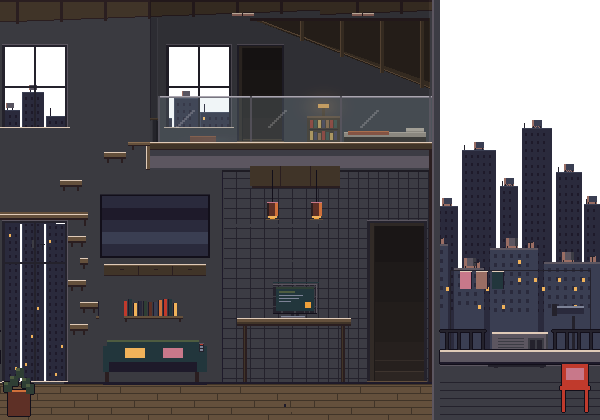
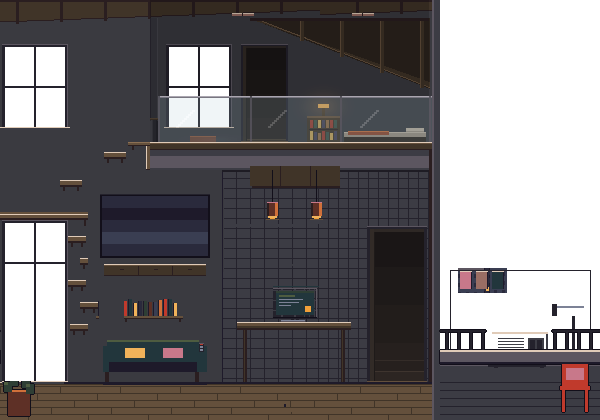
Update the live alivelog room to live27. (#24)
Replace alivelog-room with the uploaded archive, unchanged.

diff --git a/alivelog-room/traffic.js b/alivelog-room/traffic.js
@@ -1,0 +1,43 @@
+// traffic.js（windowview3：加天際線窗燈）：高架橋上的像素車流（畫在 #land 與 #wx 之間的 <canvas id="traffic">）
+// 白天/黃昏：彩色車身；夜晚：暗車身＋白頭燈、紅尾燈；橋上路燈夜間點亮。跟 world.js 的 WEATHER.phase（台北時間日夜）。
+// 另外依 phase/天氣替 #land（地景層）套濾鏡，#sky 仍由 world.js 處理。約 15fps，只清橋面那一條帶狀區。
+(()=>{const CFG={"y0": 212, "y1": 212, "l0": 6, "l1": 6, "h0": 2, "h1": 2, "v": 38, "n": 12, "lamps": [14, 54, 94, 134, 174, 214, 254, 294, 334, 374, 414, 454, 494, 534, 574], "lampH": 4, "band": [147, 213], "win": [[548, 148, 1, 1, "#ff3a30"], [547, 161, 3, 1, "#e8f0d8"], [172, 196, 2, 1, "#d8e4f0"], [48, 202, 1, 1, "#f0c878"], [456, 189, 2, 1, "#f0c878"], [550, 159, 1, 1, "#d8e4f0"], [502, 195, 1, 1, "#f8e0a8"], [546, 170, 1, 1, "#e8b060"], [549, 169, 1, 1, "#d8e4f0"], [190, 197, 1, 1, "#f8e0a8"], [46, 182, 1, 1, "#f8e0a8"], [23, 186, 1, 1, "#f0c878"], [550, 200, 1, 1, "#f0c878"], [457, 181, 1, 1, "#d8e4f0"], [67, 199, 1, 1, "#f0c878"], [428, 200, 2, 1, "#d8e4f0"], [344, 191, 2, 1, "#f0c878"], [78, 194, 2, 1, "#f0c878"], [66, 194, 1, 1, "#f0c878"], [487, 180, 1, 1, "#f0c878"], [573, 205, 2, 1, "#e8b060"], [322, 196, 2, 1, "#f8e0a8"], [252, 198, 1, 1, "#f0c878"], [451, 203, 2, 1, "#f8e0a8"], [116, 199, 1, 1, "#f0c878"], [492, 191, 1, 1, "#e8b060"], [160, 193, 1, 1, "#f8e0a8"], [324, 202, 1, 1, "#d8e4f0"], [101, 186, 1, 1, "#d8e4f0"], [546, 163, 2, 1, "#f8e0a8"], [86, 196, 2, 1, "#f0c878"], [345, 195, 2, 1, "#f0c878"], [141, 204, 1, 1, "#f0c878"], [495, 200, 1, 1, "#f8e0a8"], [263, 198, 2, 1, "#f0c878"], [172, 199, 1, 1, "#f8e0a8"], [279, 203, 1, 1, "#f0c878"], [64, 190, 1, 1, "#d8e4f0"], [560, 204, 1, 1, "#e8b060"], [322, 182, 1, 1, "#e8b060"], [85, 188, 2, 1, "#f8e0a8"], [286, 205, 2, 1, "#f8e0a8"], [89, 189, 1, 1, "#f0c878"], [541, 192, 1, 1, "#f0c878"], [86, 204, 1, 1, "#f0c878"], [528, 204, 1, 1, "#f8e0a8"], [507, 201, 1, 1, "#f0c878"], [386, 195, 1, 1, "#e8b060"], [262, 205, 2, 1, "#f0c878"], [385, 198, 1, 1, "#f8e0a8"], [549, 204, 2, 1, "#f8e0a8"], [540, 188, 1, 1, "#f8e0a8"], [350, 193, 1, 1, "#f0c878"], [185, 194, 2, 1, "#e8b060"], [269, 202, 1, 1, "#e8b060"], [492, 182, 1, 1, "#f0c878"], [397, 195, 1, 1, "#f0c878"], [153, 190, 1, 1, "#d8e4f0"], [319, 202, 1, 1, "#d8e4f0"], [195, 203, 2, 1, "#e8b060"], [402, 186, 1, 1, "#f8e0a8"], [357, 200, 1, 1, "#f0c878"], [383, 204, 1, 1, "#e8b060"], [403, 189, 1, 1, "#f0c878"], [257, 186, 1, 1, "#f0c878"], [531, 203, 1, 1, "#f0c878"], [23, 189, 1, 1, "#e8b060"], [391, 180, 1, 1, "#f0c878"], [252, 185, 2, 1, "#d8e4f0"], [378, 203, 1, 1, "#f0c878"], [585, 202, 1, 1, "#e8b060"], [401, 193, 1, 1, "#d8e4f0"], [544, 176, 1, 1, "#f0c878"], [82, 192, 1, 1, "#e8b060"], [539, 195, 1, 1, "#f0c878"], [51, 187, 1, 1, "#f0c878"], [147, 191, 1, 1, "#f0c878"], [75, 190, 1, 1, "#f8e0a8"], [329, 205, 1, 1, "#f0c878"], [286, 198, 1, 1, "#e8b060"], [114, 205, 2, 1, "#e8b060"], [348, 205, 1, 1, "#d8e4f0"], [487, 193, 1, 1, "#f0c878"], [490, 204, 2, 1, "#f0c878"], [51, 192, 1, 1, "#e8b060"], [174, 202, 2, 1, "#f0c878"], [549, 197, 2, 1, "#e8b060"], [265, 190, 1, 1, "#f0c878"], [368, 190, 2, 1, "#e8b060"], [144, 201, 1, 1, "#f8e0a8"], [452, 190, 2, 1, "#f0c878"], [488, 183, 1, 1, "#f0c878"], [545, 194, 1, 1, "#f8e0a8"], [482, 203, 2, 1, "#f0c878"], [103, 203, 1, 1, "#f0c878"], [46, 192, 2, 1, "#f0c878"], [140, 202, 2, 1, "#f0c878"], [106, 198, 2, 1, "#f0c878"], [549, 172, 1, 1, "#f0c878"], [26, 202, 2, 1, "#f0c878"], [383, 183, 1, 1, "#f0c878"], [81, 197, 2, 1, "#f8e0a8"], [166, 201, 2, 1, "#f8e0a8"], [287, 205, 2, 1, "#d8e4f0"], [387, 189, 2, 1, "#d8e4f0"], [65, 191, 1, 1, "#f8e0a8"], [351, 198, 1, 1, "#d8e4f0"], [430, 205, 1, 1, "#e8b060"], [363, 193, 1, 1, "#d8e4f0"], [391, 201, 2, 1, "#f8e0a8"], [548, 168, 2, 1, "#d8e4f0"], [507, 199, 1, 1, "#f0c878"], [275, 205, 1, 1, "#f0c878"], [556, 193, 1, 1, "#f8e0a8"], [546, 179, 1, 1, "#f8e0a8"], [482, 189, 2, 1, "#e8b060"], [157, 189, 1, 1, "#d8e4f0"], [78, 191, 1, 1, "#e8b060"], [271, 194, 2, 1, "#f0c878"], [189, 201, 2, 1, "#f0c878"], [88, 188, 1, 1, "#f0c878"], [402, 196, 1, 1, "#f0c878"], [86, 185, 2, 1, "#d8e4f0"], [330, 197, 1, 1, "#d8e4f0"], [484, 183, 1, 1, "#f0c878"], [457, 192, 1, 1, "#f8e0a8"], [196, 193, 1, 1, "#f0c878"], [453, 193, 1, 1, "#e8b060"], [141, 199, 1, 1, "#e8b060"], [171, 191, 1, 1, "#f0c878"], [41, 196, 1, 1, "#f0c878"], [23, 198, 1, 1, "#d8e4f0"], [31, 205, 2, 1, "#d8e4f0"], [556, 189, 1, 1, "#e8b060"], [344, 204, 2, 1, "#f0c878"], [449, 193, 1, 1, "#f8e0a8"], [86, 200, 1, 1, "#f8e0a8"], [454, 187, 1, 1, "#e8b060"], [369, 195, 2, 1, "#f8e0a8"], [103, 194, 1, 1, "#d8e4f0"], [530, 201, 2, 1, "#e8b060"], [362, 200, 1, 1, "#e8b060"], [271, 198, 1, 1, "#f0c878"], [98, 195, 1, 1, "#f8e0a8"], [508, 203, 1, 1, "#e8b060"], [24, 192, 1, 1, "#e8b060"], [323, 202, 1, 1, "#f8e0a8"], [252, 202, 2, 1, "#f8e0a8"], [346, 200, 2, 1, "#f0c878"], [52, 190, 1, 1, "#e8b060"], [50, 185, 1, 1, "#d8e4f0"], [540, 197, 1, 1, "#e8b060"], [440, 198, 1, 1, "#d8e4f0"], [66, 205, 2, 1, "#f0c878"], [488, 203, 1, 1, "#f8e0a8"], [322, 192, 2, 1, "#e8b060"], [115, 204, 1, 1, "#d8e4f0"], [130, 204, 1, 1, "#e8b060"], [346, 197, 1, 1, "#f0c878"], [51, 182, 1, 1, "#f8e0a8"], [49, 189, 1, 1, "#f8e0a8"], [90, 202, 1, 1, "#e8b060"], [168, 191, 1, 1, "#f0c878"], [160, 184, 1, 1, "#f8e0a8"], [176, 193, 1, 1, "#f8e0a8"], [269, 181, 2, 1, "#e8b060"], [48, 198, 2, 1, "#d8e4f0"], [155, 184, 1, 1, "#f8e0a8"], [389, 194, 1, 1, "#f8e0a8"], [255, 205, 2, 1, "#f8e0a8"], [504, 203, 2, 1, "#e8b060"], [378, 204, 1, 1, "#d8e4f0"], [366, 196, 1, 1, "#d8e4f0"], [328, 202, 1, 1, "#e8b060"], [597, 202, 1, 1, "#f0c878"], [110, 194, 1, 1, "#d8e4f0"], [374, 203, 1, 1, "#f8e0a8"], [38, 195, 2, 1, "#d8e4f0"], [155, 195, 1, 1, "#e8b060"], [40, 199, 1, 1, "#e8b060"], [91, 190, 2, 1, "#e8b060"], [147, 192, 1, 1, "#f0c878"], [281, 204, 1, 1, "#f8e0a8"], [548, 165, 1, 1, "#d8e4f0"], [546, 196, 1, 1, "#d8e4f0"], [553, 204, 1, 1, "#f0c878"], [539, 188, 1, 1, "#f0c878"], [546, 177, 2, 1, "#f0c878"], [50, 202, 1, 1, "#e8b060"], [59, 204, 2, 1, "#d8e4f0"], [439, 204, 2, 1, "#f8e0a8"], [171, 201, 2, 1, "#f0c878"], [275, 198, 2, 1, "#f8e0a8"], [402, 185, 2, 1, "#f0c878"], [59, 189, 1, 1, "#f0c878"], [65, 196, 1, 1, "#f0c878"], [350, 201, 2, 1, "#d8e4f0"], [252, 194, 2, 1, "#e8b060"], [471, 204, 2, 1, "#d8e4f0"], [398, 198, 1, 1, "#e8b060"], [400, 192, 2, 1, "#f0c878"], [387, 187, 1, 1, "#e8b060"], [271, 188, 1, 1, "#f0c878"], [45, 180, 1, 1, "#f8e0a8"], [260, 201, 1, 1, "#f0c878"], [81, 192, 1, 1, "#d8e4f0"], [565, 204, 1, 1, "#f0c878"], [188, 197, 1, 1, "#f0c878"], [268, 200, 2, 1, "#f8e0a8"], [162, 199, 1, 1, "#f0c878"], [172, 198, 1, 1, "#f0c878"], [191, 199, 1, 1, "#f0c878"], [271, 205, 1, 1, "#e8b060"], [64, 200, 2, 1, "#d8e4f0"], [362, 196, 1, 1, "#f0c878"], [461, 200, 1, 1, "#f8e0a8"], [488, 200, 1, 1, "#f0c878"], [99, 183, 1, 1, "#d8e4f0"], [262, 181, 1, 1, "#f0c878"], [165, 194, 1, 1, "#f0c878"], [272, 180, 2, 1, "#e8b060"], [189, 191, 1, 1, "#e8b060"], [487, 181, 1, 1, "#f0c878"], [265, 193, 1, 1, "#f0c878"], [108, 191, 1, 1, "#f8e0a8"], [91, 187, 2, 1, "#f0c878"], [96, 194, 1, 1, "#d8e4f0"], [340, 201, 1, 1, "#d8e4f0"], [376, 198, 1, 1, "#e8b060"], [179, 205, 1, 1, "#f0c878"], [102, 192, 2, 1, "#f0c878"], [455, 190, 2, 1, "#f0c878"], [152, 204, 1, 1, "#e8b060"], [546, 191, 1, 1, "#f8e0a8"], [144, 193, 2, 1, "#f8e0a8"], [322, 194, 2, 1, "#f0c878"], [562, 191, 2, 1, "#e8b060"], [461, 192, 1, 1, "#f0c878"], [41, 202, 1, 1, "#e8b060"], [560, 188, 1, 1, "#e8b060"], [77, 188, 1, 1, "#e8b060"], [255, 203, 2, 1, "#f0c878"], [462, 197, 1, 1, "#d8e4f0"], [531, 199, 2, 1, "#d8e4f0"], [346, 203, 1, 1, "#f0c878"], [545, 188, 1, 1, "#d8e4f0"], [368, 203, 1, 1, "#f8e0a8"], [362, 201, 1, 1, "#d8e4f0"], [589, 205, 1, 1, "#f8e0a8"], [429, 205, 1, 1, "#d8e4f0"], [194, 202, 1, 1, "#f0c878"], [191, 204, 1, 1, "#d8e4f0"], [323, 203, 2, 1, "#d8e4f0"], [496, 203, 1, 1, "#f0c878"], [274, 187, 1, 1, "#f8e0a8"], [85, 184, 1, 1, "#e8b060"], [492, 179, 1, 1, "#f8e0a8"], [217, 205, 1, 1, "#d8e4f0"], [384, 192, 1, 1, "#e8b060"], [583, 201, 2, 1, "#e8b060"], [390, 194, 2, 1, "#d8e4f0"], [551, 194, 2, 1, "#f8e0a8"], [478, 203, 1, 1, "#d8e4f0"], [319, 195, 1, 1, "#f0c878"], [540, 204, 1, 1, "#f0c878"], [81, 199, 2, 1, "#d8e4f0"], [162, 193, 1, 1, "#f0c878"], [66, 191, 2, 1, "#f8e0a8"], [31, 201, 1, 1, "#f0c878"], [396, 199, 1, 1, "#f0c878"], [449, 192, 1, 1, "#e8b060"], [489, 191, 1, 1, "#f0c878"], [55, 198, 1, 1, "#f0c878"], [151, 192, 1, 1, "#d8e4f0"], [157, 195, 1, 1, "#f8e0a8"], [384, 200, 2, 1, "#d8e4f0"], [45, 194, 2, 1, "#f0c878"], [338, 198, 2, 1, "#f0c878"], [460, 201, 2, 1, "#f8e0a8"], [449, 187, 2, 1, "#f8e0a8"], [563, 204, 1, 1, "#f0c878"], [59, 200, 2, 1, "#e8b060"], [356, 203, 1, 1, "#d8e4f0"], [452, 192, 1, 1, "#f0c878"], [551, 186, 1, 1, "#d8e4f0"], [188, 205, 2, 1, "#f0c878"], [588, 193, 1, 1, "#f8e0a8"], [50, 193, 2, 1, "#d8e4f0"], [99, 192, 1, 1, "#e8b060"], [564, 201, 1, 1, "#e8b060"], [566, 194, 1, 1, "#e8b060"], [45, 200, 1, 1, "#f0c878"], [153, 189, 2, 1, "#f8e0a8"], [158, 205, 1, 1, "#e8b060"], [419, 205, 1, 1, "#d8e4f0"], [86, 187, 1, 1, "#e8b060"], [534, 202, 1, 1, "#e8b060"], [488, 194, 2, 1, "#d8e4f0"], [549, 182, 2, 1, "#f0c878"], [388, 190, 1, 1, "#d8e4f0"], [598, 203, 2, 1, "#f0c878"], [288, 204, 1, 1, "#f8e0a8"], [106, 193, 1, 1, "#f0c878"], [400, 191, 2, 1, "#f0c878"], [117, 198, 1, 1, "#f8e0a8"], [456, 188, 1, 1, "#d8e4f0"], [370, 192, 1, 1, "#f0c878"], [91, 201, 1, 1, "#f0c878"], [389, 183, 1, 1, "#d8e4f0"], [253, 188, 1, 1, "#f0c878"], [75, 197, 2, 1, "#f8e0a8"], [220, 205, 1, 1, "#d8e4f0"], [58, 196, 1, 1, "#f8e0a8"], [91, 184, 1, 1, "#f0c878"], [424, 199, 1, 1, "#f8e0a8"], [322, 186, 1, 1, "#f0c878"], [445, 197, 1, 1, "#f0c878"], [550, 175, 2, 1, "#f0c878"], [438, 195, 2, 1, "#f0c878"], [386, 205, 1, 1, "#e8b060"], [540, 183, 2, 1, "#e8b060"], [285, 203, 2, 1, "#e8b060"], [495, 198, 1, 1, "#d8e4f0"], [264, 186, 1, 1, "#d8e4f0"], [547, 172, 1, 1, "#f0c878"], [474, 205, 1, 1, "#f0c878"], [595, 204, 1, 1, "#f0c878"], [544, 194, 2, 1, "#d8e4f0"], [280, 203, 1, 1, "#d8e4f0"], [329, 197, 1, 1, "#e8b060"], [488, 198, 1, 1, "#f0c878"], [45, 178, 1, 1, "#f0c878"], [442, 199, 1, 1, "#d8e4f0"], [274, 205, 1, 1, "#f0c878"], [457, 204, 1, 1, "#f8e0a8"], [397, 193, 1, 1, "#f0c878"], [364, 201, 1, 1, "#e8b060"], [550, 203, 1, 1, "#f8e0a8"], [587, 196, 2, 1, "#e8b060"], [99, 182, 2, 1, "#f0c878"], [545, 205, 1, 1, "#d8e4f0"], [550, 199, 2, 1, "#f0c878"], [345, 203, 2, 1, "#e8b060"], [66, 204, 1, 1, "#e8b060"], [49, 185, 1, 1, "#f8e0a8"], [388, 200, 1, 1, "#d8e4f0"], [436, 205, 1, 1, "#f0c878"], [181, 193, 2, 1, "#f0c878"], [95, 182, 1, 1, "#f0c878"], [119, 205, 1, 1, "#e8b060"], [217, 204, 1, 1, "#f0c878"], [86, 184, 2, 1, "#d8e4f0"], [167, 202, 2, 1, "#e8b060"], [551, 187, 1, 1, "#f0c878"], [548, 159, 2, 1, "#e8b060"], [330, 205, 1, 1, "#f0c878"], [335, 198, 2, 1, "#d8e4f0"], [50, 198, 2, 1, "#f0c878"], [564, 188, 1, 1, "#f0c878"], [457, 179, 1, 1, "#f8e0a8"], [40, 205, 2, 1, "#e8b060"], [399, 203, 2, 1, "#f8e0a8"], [452, 193, 2, 1, "#d8e4f0"], [59, 203, 1, 1, "#d8e4f0"], [558, 205, 1, 1, "#f8e0a8"], [323, 193, 2, 1, "#d8e4f0"], [375, 200, 1, 1, "#f0c878"], [360, 191, 1, 1, "#f0c878"], [77, 202, 1, 1, "#f0c878"], [525, 203, 1, 1, "#f8e0a8"], [268, 198, 1, 1, "#f0c878"], [141, 197, 1, 1, "#e8b060"], [108, 197, 2, 1, "#f8e0a8"], [402, 192, 1, 1, "#d8e4f0"], [557, 196, 1, 1, "#f0c878"], [357, 199, 1, 1, "#d8e4f0"], [545, 175, 1, 1, "#e8b060"], [395, 200, 1, 1, "#e8b060"], [275, 195, 1, 1, "#f0c878"], [260, 189, 2, 1, "#d8e4f0"], [426, 204, 1, 1, "#d8e4f0"], [279, 197, 1, 1, "#f0c878"], [191, 195, 1, 1, "#f0c878"], [271, 193, 2, 1, "#f0c878"], [108, 193, 1, 1, "#f8e0a8"], [158, 197, 1, 1, "#e8b060"], [159, 201, 2, 1, "#f8e0a8"], [557, 188, 2, 1, "#f8e0a8"], [526, 199, 2, 1, "#f0c878"], [538, 188, 1, 1, "#f0c878"], [24, 187, 1, 1, "#d8e4f0"], [314, 204, 1, 1, "#f0c878"], [26, 204, 1, 1, "#f0c878"], [87, 187, 1, 1, "#f0c878"], [551, 167, 1, 1, "#d8e4f0"], [472, 205, 1, 1, "#d8e4f0"], [492, 202, 1, 1, "#e8b060"], [82, 187, 1, 1, "#d8e4f0"], [322, 197, 2, 1, "#e8b060"], [102, 190, 2, 1, "#d8e4f0"], [95, 199, 2, 1, "#d8e4f0"], [379, 201, 2, 1, "#e8b060"], [412, 204, 1, 1, "#e8b060"], [548, 184, 1, 1, "#e8b060"], [322, 204, 2, 1, "#f0c878"], [317, 205, 2, 1, "#e8b060"], [347, 194, 1, 1, "#f0c878"], [397, 186, 1, 1, "#f0c878"], [155, 192, 2, 1, "#f8e0a8"], [26, 192, 1, 1, "#e8b060"], [560, 202, 1, 1, "#e8b060"], [147, 199, 1, 1, "#f8e0a8"], [538, 193, 2, 1, "#e8b060"], [344, 205, 1, 1, "#e8b060"], [548, 180, 1, 1, "#f8e0a8"], [282, 193, 2, 1, "#d8e4f0"], [485, 205, 1, 1, "#d8e4f0"], [160, 205, 1, 1, "#f8e0a8"], [383, 195, 1, 1, "#f8e0a8"], [252, 186, 2, 1, "#d8e4f0"], [546, 165, 1, 1, "#f0c878"], [532, 202, 1, 1, "#f0c878"], [370, 203, 1, 1, "#f0c878"], [58, 197, 1, 1, "#f8e0a8"], [259, 204, 1, 1, "#f0c878"], [56, 203, 1, 1, "#d8e4f0"], [194, 193, 2, 1, "#d8e4f0"], [45, 187, 1, 1, "#f8e0a8"], [548, 192, 1, 1, "#d8e4f0"], [64, 189, 2, 1, "#e8b060"], [409, 204, 1, 1, "#e8b060"], [162, 201, 1, 1, "#f0c878"], [185, 191, 1, 1, "#f8e0a8"], [262, 182, 2, 1, "#d8e4f0"], [280, 201, 1, 1, "#f8e0a8"], [384, 202, 2, 1, "#d8e4f0"], [399, 194, 2, 1, "#e8b060"], [336, 204, 1, 1, "#d8e4f0"], [146, 187, 1, 1, "#f8e0a8"], [534, 205, 1, 1, "#f0c878"], [547, 173, 1, 1, "#f0c878"], [56, 193, 1, 1, "#f0c878"], [253, 198, 2, 1, "#f0c878"], [32, 204, 1, 1, "#f0c878"], [20, 205, 1, 1, "#d8e4f0"], [182, 195, 1, 1, "#e8b060"], [273, 204, 1, 1, "#f8e0a8"], [490, 179, 2, 1, "#f8e0a8"], [85, 196, 2, 1, "#d8e4f0"], [37, 205, 1, 1, "#f0c878"], [49, 205, 1, 1, "#f0c878"], [340, 204, 1, 1, "#f0c878"], [50, 179, 2, 1, "#f0c878"], [151, 199, 1, 1, "#f0c878"], [42, 201, 1, 1, "#f0c878"], [537, 183, 2, 1, "#f0c878"], [484, 189, 1, 1, "#f0c878"], [549, 170, 2, 1, "#f0c878"], [151, 188, 1, 1, "#f0c878"], [121, 205, 1, 1, "#d8e4f0"], [488, 190, 1, 1, "#f0c878"], [76, 193, 1, 1, "#f0c878"], [450, 187, 1, 1, "#e8b060"], [386, 183, 2, 1, "#d8e4f0"], [587, 205, 1, 1, "#f0c878"], [280, 196, 1, 1, "#f8e0a8"], [97, 188, 1, 1, "#f8e0a8"], [31, 200, 2, 1, "#f0c878"], [430, 203, 2, 1, "#d8e4f0"], [121, 198, 1, 1, "#d8e4f0"], [33, 187, 1, 1, "#f0c878"], [271, 197, 1, 1, "#d8e4f0"], [552, 193, 1, 1, "#f8e0a8"], [482, 186, 2, 1, "#f8e0a8"], [30, 197, 2, 1, "#d8e4f0"], [179, 204, 1, 1, "#f0c878"], [557, 201, 2, 1, "#f8e0a8"], [414, 204, 1, 1, "#f0c878"], [46, 200, 2, 1, "#f8e0a8"], [356, 204, 1, 1, "#f0c878"], [142, 203, 2, 1, "#f8e0a8"], [58, 200, 1, 1, "#f0c878"], [81, 204, 2, 1, "#e8b060"], [139, 193, 1, 1, "#f0c878"], [274, 185, 1, 1, "#f0c878"], [489, 199, 1, 1, "#d8e4f0"], [488, 186, 1, 1, "#f0c878"], [152, 192, 2, 1, "#e8b060"], [262, 203, 1, 1, "#f8e0a8"], [364, 203, 1, 1, "#d8e4f0"], [103, 196, 1, 1, "#f8e0a8"], [546, 167, 2, 1, "#f0c878"], [503, 204, 2, 1, "#f0c878"], [395, 197, 2, 1, "#f8e0a8"], [272, 190, 2, 1, "#f0c878"], [159, 186, 1, 1, "#f8e0a8"], [546, 183, 1, 1, "#f8e0a8"], [369, 192, 2, 1, "#f0c878"], [453, 198, 1, 1, "#f0c878"], [146, 198, 1, 1, "#e8b060"], [258, 205, 1, 1, "#f8e0a8"], [51, 193, 1, 1, "#e8b060"], [408, 205, 1, 1, "#f0c878"], [537, 195, 1, 1, "#f8e0a8"], [488, 196, 1, 1, "#f0c878"], [258, 195, 2, 1, "#f8e0a8"], [565, 188, 1, 1, "#d8e4f0"], [106, 199, 2, 1, "#f8e0a8"], [75, 199, 2, 1, "#d8e4f0"], [99, 184, 2, 1, "#e8b060"], [161, 199, 1, 1, "#f0c878"], [108, 192, 1, 1, "#d8e4f0"], [85, 187, 1, 1, "#f8e0a8"], [174, 189, 2, 1, "#f8e0a8"], [100, 205, 1, 1, "#e8b060"], [25, 193, 1, 1, "#f8e0a8"], [318, 193, 1, 1, "#e8b060"], [337, 201, 1, 1, "#f8e0a8"], [261, 197, 1, 1, "#f8e0a8"], [552, 176, 1, 1, "#f8e0a8"], [28, 187, 2, 1, "#f0c878"], [388, 204, 1, 1, "#f0c878"], [89, 191, 2, 1, "#f0c878"], [504, 197, 1, 1, "#e8b060"], [61, 197, 1, 1, "#f8e0a8"], [142, 195, 1, 1, "#d8e4f0"], [261, 181, 2, 1, "#e8b060"], [560, 201, 1, 1, "#f8e0a8"], [456, 201, 1, 1, "#f0c878"], [90, 186, 1, 1, "#f0c878"], [566, 197, 1, 1, "#d8e4f0"], [144, 186, 2, 1, "#f8e0a8"], [289, 194, 1, 1, "#f8e0a8"], [396, 205, 2, 1, "#e8b060"], [443, 200, 1, 1, "#d8e4f0"], [184, 193, 1, 1, "#e8b060"], [455, 187, 1, 1, "#f0c878"], [100, 187, 1, 1, "#d8e4f0"], [265, 189, 1, 1, "#d8e4f0"], [556, 202, 1, 1, "#f0c878"], [402, 194, 1, 1, "#d8e4f0"], [168, 202, 1, 1, "#f0c878"], [312, 205, 1, 1, "#f0c878"], [335, 205, 1, 1, "#e8b060"], [402, 201, 2, 1, "#e8b060"], [91, 197, 2, 1, "#f0c878"], [513, 204, 1, 1, "#d8e4f0"], [498, 198, 1, 1, "#d8e4f0"], [154, 189, 2, 1, "#f8e0a8"], [272, 183, 2, 1, "#e8b060"], [454, 190, 1, 1, "#d8e4f0"], [544, 196, 1, 1, "#f8e0a8"], [46, 178, 1, 1, "#f0c878"], [547, 197, 1, 1, "#e8b060"], [76, 190, 1, 1, "#e8b060"], [456, 197, 2, 1, "#d8e4f0"], [176, 194, 1, 1, "#f0c878"], [261, 188, 2, 1, "#d8e4f0"], [583, 205, 1, 1, "#e8b060"], [285, 202, 2, 1, "#f8e0a8"], [395, 188, 1, 1, "#e8b060"], [340, 205, 2, 1, "#f0c878"], [556, 188, 2, 1, "#e8b060"], [426, 200, 2, 1, "#e8b060"], [431, 200, 2, 1, "#f8e0a8"], [65, 192, 1, 1, "#e8b060"], [488, 199, 2, 1, "#f8e0a8"], [384, 194, 2, 1, "#e8b060"], [547, 188, 1, 1, "#f8e0a8"], [166, 191, 1, 1, "#e8b060"], [276, 197, 1, 1, "#f0c878"], [558, 194, 1, 1, "#d8e4f0"], [550, 186, 1, 1, "#e8b060"], [498, 202, 2, 1, "#f8e0a8"], [28, 194, 1, 1, "#f8e0a8"], [348, 193, 1, 1, "#f0c878"], [389, 195, 1, 1, "#e8b060"], [181, 194, 2, 1, "#f0c878"], [347, 200, 1, 1, "#d8e4f0"], [65, 195, 2, 1, "#e8b060"], [143, 201, 1, 1, "#f0c878"], [257, 190, 1, 1, "#e8b060"], [482, 199, 1, 1, "#e8b060"], [148, 191, 1, 1, "#d8e4f0"], [520, 204, 1, 1, "#f0c878"], [175, 199, 1, 1, "#f0c878"], [491, 200, 1, 1, "#e8b060"], [102, 191, 1, 1, "#f8e0a8"], [195, 199, 1, 1, "#f8e0a8"], [386, 204, 2, 1, "#d8e4f0"], [551, 200, 2, 1, "#f0c878"], [483, 186, 2, 1, "#e8b060"], [33, 204, 1, 1, "#f0c878"], [547, 177, 1, 1, "#d8e4f0"], [456, 203, 1, 1, "#d8e4f0"], [537, 196, 2, 1, "#d8e4f0"], [87, 203, 2, 1, "#f8e0a8"], [548, 181, 1, 1, "#f0c878"], [484, 180, 1, 1, "#f0c878"], [385, 188, 2, 1, "#f8e0a8"], [132, 204, 2, 1, "#e8b060"], [187, 197, 1, 1, "#d8e4f0"]], "bank": [[24, 330], [72, 330], [120, 330], [168, 330], [216, 330], [264, 330], [312, 330], [360, 330], [408, 330], [456, 330], [504, 330], [552, 330]]};
+const cv=document.getElementById('traffic');if(!cv)return;const g=cv.getContext('2d');const land=document.getElementById('land');
+const LAND={day:'brightness(1.12) saturate(.92)',dusk:'none',night:'brightness(.42) saturate(.6)'};
+const BODY=['#e8e4dc','#b8bcc4','#3a4a6a','#a83a32','#e8c040','#e8c040','#2a2a30','#6a7078','#f0f0ec'];
+const L=(a,b,x)=>a+(b-a)*x/600,yp=x=>Math.round(L(CFG.y0,CFG.y1,x));
+let seed=11;const rnd=()=>(seed=(seed*16807)%2147483647)/2147483647;const V=[];
+function spawn(init){const dir=rnd()<.5?1:-1,moto=rnd()<.3;V.push({x:init?rnd()*600:(dir>0?-8:608),dir,moto,sp:CFG.v*(.7+rnd()*.6)*(moto?1.1:1),c:BODY[(rnd()*BODY.length)|0]})}
+for(let i=0;i<CFG.n;i++)spawn(true);
+let last=0,bankPh='';
+function bank(ph){bankPh=ph;g.clearRect(0,226,600,130);if(ph==='day')return;
+  // 光源都是真的：堤岸路燈（單像素燈頭＋3 圈低 alpha 同心圓柔光，照亮下方步道）、路燈與對岸窗燈在水面的倒影（短橫光痕，純色＋alpha）
+  const a=ph==='night'?1:.55,warm=al=>`rgba(255,214,150,${al*a})`;
+  for(const[x,y]of CFG.bank||[]){for(const[r,al]of[[7,.05],[4,.07],[2,.10]]){g.fillStyle=warm(al);g.beginPath();g.arc(x+.5,y+.5,r,0,7);g.fill()}
+    g.fillStyle=warm(.16);g.fillRect(x-4,345,9,7);g.fillStyle=ph==='night'?'#ffe6b0':'#e8c890';g.fillRect(x,y,1,1)}
+  for(let i=0;i<(CFG.win||[]).length;i+=3){const q=CFG.win[i];if(q[1]<196||q[4]==='#ff3a30')continue;if(!night(ph)&&(i%5)>1)continue;   // 對岸窗燈倒影：只取較低的樓窗，倒在近對岸的水面
+    const ry=244+Math.round((212-q[1])*1.4)+(i%3);if(ry>276)continue;g.fillStyle=q[4]+(ph==='night'?'66':'40');g.fillRect(q[0]-1,ry,q[2]+2,1)}
+  for(let x=9;x<600;x+=22){   // 對岸堤防路燈：照亮堤頂（y232–236）讓對岸輪廓可讀，倒影成縱向短光痕
+    g.fillStyle=warm(.10);g.fillRect(x-5,230,11,6);g.fillStyle=warm(.14);g.fillRect(x-2,231,5,5);
+    g.fillStyle=ph==='night'?'#ffe6b0':'#e8c890';g.fillRect(x,229,1,1);
+    for(let k=0;k<4;k++){g.fillStyle=warm(.30-k*.06);g.fillRect(x,237+k*3,1,2)}}
+  for(const[x]of CFG.bank||[]){g.fillStyle=`rgba(255,214,150,${.22*a})`;for(let k=0;k<4;k++)g.fillRect(x-1-k,292-k*5,3+k*2,1)}}   // 路燈倒影在近岸水面
+function night(ph){return ph==='night'}
+const HL=[];   // 車頭燈在河面的倒影（隨車移動）
+function frame(t){requestAnimationFrame(frame);if(t-last<66)return;const dt=Math.min(.25,(t-last)/1000);last=t;
+  const w=window.WEATHER||{},ph=window.FORCE_PHASE||w.phase||'dusk',k=window.FORCE_KIND||w.kind||'clear';
+  if(land){let f=LAND[ph]||'none';if(k!=='clear')f=(f==='none'?'':f+' ')+'saturate(.6) brightness('+(k==='rain'?.75:.88)+')';if(land.style.filter!==f)land.style.filter=f}
+  g.clearRect(0,CFG.band[0],600,CFG.band[1]-CFG.band[0]);g.clearRect(0,239,600,3);
+  const night=ph==='night';if(ph!==bankPh)bank(ph);
+  if(ph!=='day'&&CFG.win){for(let i=0;i<CFG.win.length;i++){const q=CFG.win[i];if(!night&&q[4]!=='#ff3a30'&&(i%5)>1)continue;g.fillStyle=q[4];g.fillRect(q[0],q[1],q[2],q[3])}}   // 樓窗燈：夜全亮、黃昏約 4 成；101 頂燈
+  if(ph!=='day'){g.fillStyle=night?'#ffe0a0':'#d8a870';for(const lx of CFG.lamps)g.fillRect(lx,yp(lx)-CFG.lampH-1,2,1)}
+  for(let i=V.length-1;i>=0;i--){const v=V[i];v.x+=v.dir*v.sp*dt;if(v.x<-10||v.x>610){V.splice(i,1);spawn(false);continue}
+    const x=Math.round(v.x),b=yp(x),len=Math.max(2,Math.round(L(CFG.l0,CFG.l1,x))),h=Math.max(1,Math.round(L(CFG.h0,CFG.h1,x)));
+    const body=night?'#20202a':v.c;
+    if(v.moto){g.fillStyle=body;g.fillRect(x,b-1,2,1);g.fillStyle=night?'#20202a':'#30303a';g.fillRect(x+(v.dir>0?0:1),b-2,1,1)}
+    else{g.fillStyle=body;g.fillRect(x,b-1,len,1);if(h>1){g.fillRect(x+1,b-h,len-2,h-1)}}
+    const L2=v.moto?2:len,front=v.dir>0?x+L2-1:x,rear=v.dir>0?x:x+L2-1;
+    if(night||ph==='dusk'){g.fillStyle='#fff6d8';g.fillRect(front,b-1,1,1);g.fillStyle='#ff3a30';g.fillRect(rear,b-1,1,1);
+      g.fillStyle=night?'rgba(255,240,210,.35)':'rgba(255,240,210,.2)';g.fillRect(front-1,240+(x&1),3,1)}   // 頭燈倒影（橋下水面，隨車移動）
+  }}
+requestAnimationFrame(frame);})();

diff --git a/alivelog-room/index.html b/alivelog-room/index.html
@@ -7,11 +7,14 @@
 <title>alivelog 頂樓房</title>
 <style>
 *{-webkit-touch-callout:none;-webkit-tap-highlight-color:transparent}
-html,body{margin:0;height:100%;touch-action:none;-webkit-text-size-adjust:100%;overscroll-behavior:none;background:#2a2a3c;overflow:hidden;user-select:none}
+html,body{margin:0;height:100%;touch-action:none;-webkit-text-size-adjust:100%;overscroll-behavior:none;background:#2a2a3c;overflow:hidden;overflow:clip;user-select:none}
+body{position:fixed;inset:0}
 #back{position:fixed;left:0;right:0;top:0;background:#3a3e52;pointer-events:none}
 .px{position:absolute;image-rendering:pixelated;background-repeat:no-repeat}
 #sky{background-image:url(sky.png);background-size:100% 100%}
 #planes{position:absolute;image-rendering:pixelated}
+#land{background-image:url(land.png);background-size:100% 100%}
+#traffic{image-rendering:pixelated}
 #fg{background-image:url(room_fg.png);background-size:100% 100%}
 #win{position:absolute;cursor:grab;touch-action:none}
 #win .px{top:0;height:100%;background-size:auto 100%}
@@ -42,14 +45,14 @@ html,body{margin:0;height:100%;touch-action:none;-webkit-text-size-adjust:100%;o
 #mon.big{z-index:6;box-shadow:0 0 0 100vmax rgba(10,8,16,.8)}
 #remote{position:absolute;cursor:pointer;z-index:4}
 </style></head><body>
-<div id="back"></div><div id="sky" class="px"></div><canvas id="planes" width="600" height="420"></canvas><canvas id="wx" class="px" width="600" height="420"></canvas><div id="tint" class="px" style="pointer-events:none"></div><div id="fg" class="px"></div><canvas id="amb" class="px" width="600" height="420" style="pointer-events:none"></canvas>
+<div id="back"></div><div id="sky" class="px"></div><canvas id="planes" width="600" height="420"></canvas><div id="land" class="px"></div><canvas id="traffic" class="px" width="600" height="420"></canvas><canvas id="wx" class="px" width="600" height="420"></canvas><div id="tint" class="px" style="pointer-events:none"></div><div id="fg" class="px"></div><canvas id="amb" class="px" width="600" height="420" style="pointer-events:none"></canvas>
 <div id="win"><div id="sheer" class="px"></div><div id="dl" class="px"></div><div id="dr" class="px"></div></div>
 <div id="tv"><div id="slot"><div id="yt"></div></div><div id="poweroff" class="bl" data-off="0"><i></i></div><div id="chsel"></div><canvas id="osd" width="106" height="60"></canvas><div id="hit"></div></div>
 <div id="remote"></div>
 <div id="rc"></div><canvas id="mon" width="38" height="24"></canvas>
 <script>
 // ---- 座標（底圖 600x420 樓中樓，Nook loft_final/coords.md）----
-const SCREEN={x:102,y:196,w:106,h:60}, WIN={x:5,y:223,w:60,h:158}, REMOTE={x:197,y:341,w:9,h:13}, MON={x:276,y:287,w:38,h:24};
+const SCREEN={x:102,y:196,w:106,h:60}, WIN={x:5,y:223,w:60,h:158}, REMOTE={x:197,y:341,w:9,h:13}, MON={x:276,y:291,w:38,h:24};
 // 實測（10/12 headless）：民視、TVBS 的 live_stream?channel= 嵌入顯示「This video is unavailable」，
 // 所以這兩台先用目前的 24h 直播影片 ID，播放器報錯才改用 live_stream；公視 live_stream 可以直接播。
 const CH=[
@@ -62,16 +65,20 @@ const $=id=>document.getElementById(id);
 let s=1,big=false,curtain=0,ch=0,player=null,apiReady=false,unlocked=false;
 let vol=+(localStorage.getItem('alivelog.tv.volume')??40);
 // ---- 版面：整張縮放（contain，不平移；接近整數倍才取整數裝置像素）----
-const STAGE={w:600,h:420};let ox=0,oy=0;
+const STAGE={w:600,h:420};let ox=0,oy=0,panX=0.26,PORTRAIT=false;   // 直拿：高度滿版＋左右平移（panX 0=最左 1=最右）
 function layout(){
   let W=innerWidth,H=innerHeight;
   if(navigator.standalone){const P=H>=W,a=Math.max(screen.width,screen.height),b=Math.min(screen.width,screen.height);if(P)H=Math.max(H,a);else W=Math.max(W,a),H=Math.max(H,b)}
-  const dpr=devicePixelRatio||1;s=Math.min(W/STAGE.w,H/STAGE.h);const sd=Math.floor(s*dpr);if(sd>=1&&sd/dpr>=s*0.9)s=sd/dpr;
-  const cw=Math.round(STAGE.w*s),ch=Math.round(STAGE.h*s);ox=Math.floor((W-cw)/2);oy=Math.floor((H-ch)/2);
+  const dpr=devicePixelRatio||1;PORTRAIT=H>W&&H/STAGE.h>W/STAGE.w;
+  if(PORTRAIT){s=H/STAGE.h;const sc=Math.ceil(s*dpr)/dpr;if(sc/s<=1.02)s=sc}   // 直拿：蓋滿高度（接近整數裝置像素就取整，只會略大不會留白）
+  else{s=Math.min(W/STAGE.w,H/STAGE.h);const sd=Math.floor(s*dpr);if(sd>=1&&sd/dpr>=s*0.9)s=sd/dpr}
+  const cw=Math.round(STAGE.w*s),ch=Math.round(STAGE.h*s);
+  if(PORTRAIT){panX=Math.max(0,Math.min(1,panX));ox=-Math.round((cw-W)*panX);oy=Math.floor((H-ch)/2)}else{ox=Math.floor((W-cw)/2);oy=Math.floor((H-ch)/2)}
+  document.body.classList.toggle('portrait-pan',PORTRAIT);
   window.VIEW={s,ox,oy};$('back').style.height=(oy+Math.round(ch*0.55))+'px';
   const box=(el,r)=>Object.assign(el.style,{left:r.x+'px',top:r.y+'px',width:r.w+'px',height:r.h+'px'});
   const at=r=>({x:Math.round(ox+r.x*s),y:Math.round(oy+r.y*s),w:Math.round(r.w*s),h:Math.round(r.h*s)});
-  for(const id of["sky","wx","fg","tint","planes","amb"].filter(i=>$(i)))box($(id),{x:ox,y:oy,w:cw,h:ch});
+  for(const id of["sky","land","traffic","wx","fg","tint","planes","amb"].filter(i=>$(i)))box($(id),{x:ox,y:oy,w:cw,h:ch});
   box($('win'),at(WIN));box($('remote'),at(REMOTE));
   const pc=n=>(n/WIN.w*100)+'%';
   $('dl').style.width=$('dr').style.width=pc(curtain>=1?4:WIN.w/2);
@@ -187,8 +194,20 @@ let zoomed=null;function zoom(id){if(zoomed&&zoomed!==id)unzoom();zoomed=id;big=
 function unzoom(){if(!zoomed)return;$(zoomed).classList.remove('big');zoomed=null;big=false;layout();window.drawMon&&drawMon()}
 document.addEventListener('pointerdown',e=>{if(zoomed&&!$(zoomed).contains(e.target)&&!$('rc').contains(e.target)){unzoom();e.stopPropagation();st=null}},true);   // 點旁邊（按下當下）就縮回，不受之後 click 位置影響
 $('mon').addEventListener('pointerup',e=>{if(zoomed!=='mon')zoom('mon')});
-// ---- 不平移：整張都看得到；PANKEEP 保留成空函式給 cat.js／dust.js 呼叫 ----
-let userPanAt=0;window.AUTOPAN={n:0,last:null};window.PANKEEP=()=>false;
+// ---- 平移：只有直拿時，左右拖曳空白處；橫拿／桌機整張看得到不平移 ----
+let userPanAt=0,pan=null,apT=null;window.AUTOPAN={n:0,last:null};
+const spanX=()=>Math.round(STAGE.w*s)-innerWidth;
+addEventListener('pointerdown',e=>{if(!PORTRAIT||big||zoomed)return;const t=e.target;if(t===document.body||t.id==='fg'||t.id==='amb'||t.id==='sky'||t.id==='land'||t.id==='traffic'||t.id==='wx'||t.id==='back')pan={x:e.clientX,px:panX,moved:false}});
+addEventListener('pointermove',e=>{if(!pan)return;const sw=spanX(),dx=e.clientX-pan.x;if(Math.abs(dx)>6){pan.moved=true;userPanAt=Date.now()}if(sw>0&&pan.moved){panX=Math.max(0,Math.min(1,pan.px-dx/sw));cancelAnimationFrame(apT);layout()}});
+addEventListener('pointerup',()=>{if(pan&&pan.moved)window.PANNED=(window.PANNED||0)+1;pan=null});addEventListener('pointercancel',()=>pan=null);
+addEventListener('wheel',e=>{if(!PORTRAIT)return;const sw=spanX();if(sw>0){panX=Math.max(0,Math.min(1,panX+(e.deltaX||e.deltaY)/sw));userPanAt=Date.now();layout()}},{passive:true});
+// 自動平移：直拿時讓貓／撢子留在畫面內；使用者 8 秒內滑過就不搶
+window.PANKEEP=function(x0,x1){if(!PORTRAIT||big||zoomed||pan||Date.now()-userPanAt<8000)return false;
+  const sw=spanX();if(sw<=0||x0==null)return false;const v0=-ox/s,vw=innerWidth/s,m=12;let L;
+  if(x1-x0+2*m>vw)L=(x0+x1)/2-vw/2;else if(x0-m<v0)L=x0-m;else if(x1+m>v0+vw)L=x1+m-vw;else return false;
+  const tx=Math.max(0,Math.min(1,L*s/sw));if(Math.abs(tx-panX)<.002)return false;AUTOPAN.n++;AUTOPAN.last={tx,at:Date.now()};cancelAnimationFrame(apT);
+  (function step(){if(pan||Date.now()-userPanAt<8000)return;panX+=(tx-panX)*.15;if(Math.abs(tx-panX)<.002){panX=tx;layout();return}layout();apT=requestAnimationFrame(step)})();return true};
+window.PANVIEW={get x(){return panX},set(v){panX=v;layout()},get portrait(){return PORTRAIT}};
 window.toRoom=e=>{const V=window.VIEW;return{x:(e.clientX-V.ox)/V.s,y:(e.clientY-V.oy)/V.s}};
 // ---- 禁止整頁縮放（iOS 會忽略 user-scalable，所以再用事件擋：雙指縮放、連點兩下）----
 ['gesturestart','gesturechange','gestureend'].forEach(t=>document.addEventListener(t,e=>e.preventDefault(),{passive:false}));
@@ -225,8 +244,8 @@ const n=ac.createBufferSource(),len=ac.sampleRate*2,b=ac.createBuffer(1,len,ac.s
   n.buffer=b;n.loop=true;const lp=ac.createBiquadFilter();lp.type='lowpass';lp.frequency.value=140;const gn=ac.createGain(),t=ac.currentTime;
   gn.gain.setValueAtTime(0,t);gn.gain.linearRampToValueAtTime(.025,t+sec*.45);gn.gain.linearRampToValueAtTime(0,t+sec);
   n.connect(lp).connect(gn).connect(ac.destination);n.start(t);n.stop(t+sec+.1)}
-addEventListener('resize',layout);layout();noise(300,()=>osdText('CH 1',1500));requestAnimationFrame(tick);schedule();
+addEventListener('resize',layout);addEventListener('scroll',()=>{if(scrollX||scrollY)scrollTo(0,0)});layout();noise(300,()=>osdText('CH 1',1500));requestAnimationFrame(tick);schedule();
 </script>
-<script src="mon.js"></script><script src="cat.js"></script><script src="world.js"></script><script src="bias.js"></script><script src="lights.js"></script><script src="knock.js"></script><script src="board.js"></script><script src="dust.js"></script><script src="remote.js"></script>
+<script src="mon.js"></script><script src="cat.js"></script><script src="world.js"></script><script src="traffic.js"></script><script src="bias.js"></script><script src="lights.js"></script><script src="knock.js"></script><script src="board.js"></script><script src="dust.js"></script><script src="remote.js"></script>
 <script src="https://www.youtube.com/iframe_api"></script>
 </body></html>

diff --git a/alivelog-room/cat.js b/alivelog-room/cat.js
@@ -28,11 +28,16 @@ function startSpot(spots){let sv=null;try{sv=JSON.parse(localStorage.getItem(SKE
   napUntil=napping?next7():0;return{spot:pick,how:napping?'random_nap':'random'}}
 const has=a=>SHEET&&SHEET.animations&&SHEET.animations[a];
 const rnd=(a,b)=>a+Math.random()*(b-a);
+// 閣樓玻璃欄杆：疊在貓的像素上（source-atop），貓在玻璃後面；只影響欄杆矩形 x158–431,y96–141
+const GLASS=new Image();GLASS.src='glass_rail.png';let lastF=null,glassAt='';
+function glassOver(g){if(!GLASS.complete||!GLASS.naturalWidth)return;const x=Math.round(pos.x),y=Math.round(pos.y);
+  if(x+CAT.w<=158||x>=432||y+CAT.h<=96||y>=142){glassAt='';return}
+  g.save();g.globalCompositeOperation='source-atop';g.drawImage(GLASS,x,y,CAT.w,CAT.h,0,0,CAT.w,CAT.h);g.restore();glassAt=x+','+y}
 // 找動畫：沒有 *_right 就用 *_left 鏡像（反之亦然）；都沒有就退回 breathe
 function res(n){if(has(n))return{n,m:false};const o=n.replace(/_right$/,'_LEFT').replace(/_left$/,'_right').replace('_LEFT','_left');if(o!==n&&has(o))return{n:o,m:true};
   const t=n.replace(/_to_(left|right)$/,'');if(has(t))return{n:t,m:/_to_right$/.test(n)};return{n:'breathe',m:false}}
 function frameDraw(name,mir){const g=cv.getContext('2d');g.clearRect(0,0,cv.width,cv.height);const f=SHEET&&SHEET.frames[name];if(!f||!IMG)return;
-  g.save();if(mir){g.translate(cv.width,0);g.scale(-1,1)}g.drawImage(IMG,f.x,f.y,f.w,f.h,0,0,f.w,f.h);g.restore();cv.dataset.frame=name;cv.dataset.mirror=mir?'1':'0';
+  g.save();if(mir){g.translate(cv.width,0);g.scale(-1,1)}g.drawImage(IMG,f.x,f.y,f.w,f.h,0,0,f.w,f.h);g.restore();cv.dataset.frame=name;cv.dataset.mirror=mir?'1':'0';lastF=[name,mir];glassOver(g);cv.dataset.glass=glassAt;
   cv.style.filter=document.getElementById('fg').style.filter||'none';
   if(sleepNow()){g.fillStyle='#e0cbb8';const z=(x,y)=>{g.fillRect(x,y,3,1);g.fillRect(x+1,y+1,1,1);g.fillRect(x,y+2,3,1)};z(34,3);z(39,0)}}
 function schedule(now){nextAt={blink:now+rnd(3e3,7e3),ear_twitch:now+rnd(5e3,11e3),tail_swish:now+rnd(7e3,15e3),lick:now+rnd(45e3,90e3),stretch:now+rnd(120e3,240e3),move:now+rnd(40e3,120e3)};
@@ -108,7 +113,8 @@ function mv(x0,x1,pw){const y=pos.y;return{anim:x1<x0?(pw.anim_left||'walk_left'
 function wander(){if(sleepNow())return idle();
   if(spot!=='ac_perch'&&Date.now()-zoomLast>30*60e3&&Math.random()<.25)return zoomies(false);
   const opts=Object.keys(SP()).filter(k=>k!==spot);const t=opts[Math.random()*opts.length|0];const L=walkTo2(t);spot='moving';
-  if(t==='window_gaze'||/^walkway/.test(t))follow=true;if(t==='window_gaze')L.push({anim:'sit_gaze_window',times:1,loopUntil:performance.now()+rnd(20e3,60e3)});run(L)}
+  follow=true;   // live25：直拿可平移，走動時鏡頭跟著貓（使用者剛滑過 8 秒內不搶）
+  if(t==='window_gaze')L.push({anim:'sit_gaze_window',times:1,loopUntil:performance.now()+rnd(20e3,60e3)});run(L)}
 function walkTo2(t){const was=act&&act.spotWas;return walkTo.call(null,t)}
 // 暴衝：依 paths.zoomies.sequence；撞盆栽那步對齊 knock.js 的盆栽（PLANT.contactX），不撞就跳過撞擊格
 function zoomies(force){if(!SHEET||sleepNow()||(act&&(act.jump||act.tunnel)))return false;const Z=P().zoomies;if(!Z)return false;zoomLast=Date.now();
@@ -149,7 +155,7 @@ function pose(){if(SHEET&&cur){schedule(performance.now());if(sleepNow()&&(Q.len
     if(act&&(act.jump||act.tunnel)){Q=[{fn:()=>{spot=spotAt()}}];return}   // 跳到一半不能停在空中：落地再睡
     Q=[];if(spot==='moving')spot=spotAt();idle()}draw1()}}   // 記「睡」→ 原地停下睡
 window.CATSPRITE={get anim(){return cur&&cur.anim},get frame(){return cv.dataset.frame},get mirror(){return cv.dataset.mirror==='1'},get pos(){return Object.assign({},pos)},get spot(){return spot},get queue(){return Q.length},
-  play:(a,t)=>run([{anim:a,times:t||1}]),go:t=>{if(act&&(act.jump||act.tunnel))return false;const L=walkTo(t);spot='moving';follow=t==='window_gaze'||/^walkway/.test(t);run(L.concat(t==='window_gaze'?[{anim:'sit_gaze_window',times:1,loopUntil:performance.now()+30e3}]:[]))},zoomies:f=>zoomies(f!==false),reload:boot};
+  play:(a,t)=>run([{anim:a,times:t||1}]),go:t=>{if(act&&(act.jump||act.tunnel))return false;const L=walkTo(t);spot='moving';follow=true;run(L.concat(t==='window_gaze'?[{anim:'sit_gaze_window',times:1,loopUntil:performance.now()+30e3}]:[]))},zoomies:f=>zoomies(f!==false),reload:boot};
 if(/[?&]debug=1/.test(location.search)){const b=document.createElement('button');b.id='dbgzoom';b.textContent='zoom';
   b.style.cssText='position:fixed;left:64px;top:6px;z-index:50;font:12px monospace;background:#120f1a;color:#f0b25a;border:2px solid #f0b25a;padding:4px 8px';
   b.addEventListener('pointerup',e=>{e.stopPropagation();zoomies(true)});b.addEventListener('click',e=>e.stopPropagation());document.body.appendChild(b)}
@@ -157,7 +163,8 @@ boot();
 function flash(b){const f=document.createElement('div');f.textContent='已記：'+b;f.style.cssText=menu.style.cssText+';display:block;padding:8px;pointer-events:none';
   const r=hit.getBoundingClientRect();f.style.left=r.left+'px';f.style.top=Math.max(0,r.top-40)+'px';document.body.appendChild(f);setTimeout(()=>f.remove(),1200)}
 function place(){const {s,ox,oy}=window.VIEW||{s:1,ox:0,oy:0};
-  Object.assign(hit.style,{left:ox+Math.round(pos.x)*s+'px',top:oy+Math.round(pos.y)*s+'px',width:CAT.w*s+'px',height:CAT.h*s+'px'});Object.assign(cv.style,{left:hit.style.left,top:hit.style.top,width:hit.style.width,height:hit.style.height})}
+  Object.assign(hit.style,{left:ox+Math.round(pos.x)*s+'px',top:oy+Math.round(pos.y)*s+'px',width:CAT.w*s+'px',height:CAT.h*s+'px'});Object.assign(cv.style,{left:hit.style.left,top:hit.style.top,width:hit.style.width,height:hit.style.height});
+  if(lastF){const x=Math.round(pos.x),y=Math.round(pos.y),inG=!(x+CAT.w<=158||x>=432||y+CAT.h<=96||y>=142);if(inG?glassAt!==x+','+y:glassAt)frameDraw(lastF[0],lastF[1])}}
 function open(){const r=hit.getBoundingClientRect();menu.style.display='block';const mh=menu.offsetHeight,mw=menu.offsetWidth;
   menu.style.left=Math.max(4,Math.min(innerWidth-mw-4,r.left+r.width/2-mw/2))+'px';menu.style.top=Math.max(4,Math.min(innerHeight-mh-4,r.top-mh-6))+'px'}
 const close=()=>menu.style.display='none';

diff --git a/alivelog-room/world.js b/alivelog-room/world.js
@@ -17,12 +17,12 @@ async function fetchWx(){W.loc=where();const[la,lo]=LOC[W.loc];
     W.rise=Date.parse(j.daily.sunrise[0]+':00+08:00');W.set=Date.parse(j.daily.sunset[0]+':00+08:00');W.kind=W.precip>0?'rain':kind(W.code);W.src='Open-Meteo '+j.current.time}
   catch(e){W.src='取得失敗：'+e}apply()}
 // 只有黃昏底圖：白天/夜晚用濾鏡＋色層近似
-const LOOK={day:{sky:'hue-rotate(185deg) saturate(.7) brightness(1.45)',fg:'brightness(1.08)',tint:'rgba(0,0,0,0)'},
+const LOOK={day:{sky:'none',fg:'brightness(1.08)',tint:'rgba(0,0,0,0)'},
   dusk:{sky:'none',fg:'none',tint:'rgba(0,0,0,0)'},
   night:{sky:'hue-rotate(200deg) saturate(.5) brightness(.38)',fg:'brightness(.78) saturate(.85)',tint:'rgba(10,14,40,.18)'}};
 function apply(){W.phase=window.FORCE_PHASE||phase();const k=window.FORCE_KIND||W.kind,L=LOOK[W.phase];
   let sky=L.sky;if(k!=='clear')sky=(sky==='none'?'':sky+' ')+'saturate(.45) brightness('+(k==='rain'?.7:.85)+')';
-  $('sky').style.filter=sky||'none';$('fg').style.filter=L.fg;$('tint').style.background=L.tint;W.shown=W.phase+'/'+k}
+  $('sky').style.backgroundImage=W.phase==='day'?'url(sky_day.png)':'';$('sky').style.filter=sky||'none';$('fg').style.filter=L.fg;$('tint').style.background=L.tint;W.shown=W.phase+'/'+k}
 // 雲與雨（畫在天空層，在建築與房間後面）
 const wx=$('wx').getContext('2d');let drops=[],clouds=[];
 for(let i=0;i<5;i++)clouds.push({x:Math.random()*600,y:6+Math.random()*194|0,w:30+Math.random()*40|0,v:1+Math.random()*2});
@@ -72,7 +72,7 @@ function amb(now){a.clearRect(0,0,600,420);const sl=sleeping(),T=(now-t0)/1000;
   // （電視櫃小盆栽已移除，搖擺動畫一併拿掉）
   // 檯燈極輕微閃爍
   // 馬克杯＋蒸氣
-  R(321,313,5,5,'#c8c0b4');R(321,313,5,1,P.white);R(326,314,1,2,'#c8c0b4');R(322,314,3,1,'#5a3a2a');   // W_v3：書桌右移 40
+  R(321,317,5,5,'#c8c0b4');R(321,317,5,1,P.white);R(326,318,1,2,'#c8c0b4');R(322,318,3,1,'#5a3a2a');   // W_v3：書桌右移 40
   for(let i=0;i<3;i++){const ph=(T*0.9+i/3)%1,y=311-ph*12|0,x=323+Math.round(Math.sin(ph*6+i)*1.2);a.fillStyle=`rgba(224,203,184,${(.5*(1-ph)).toFixed(2)})`;a.fillRect(x,y,1,2)}
   clock();a.save();a.translate(120,150);feeder(now);a.restore()}   // live23：餵食器在陽台側 → x+120、y+150
 // 窗簾微微擺動（1px，步進）

diff --git a/alivelog-room/board.js b/alivelog-room/board.js
@@ -2,7 +2,7 @@
 // 點板上空白處＝新增（下方一行輸入框＋5 色）；點便利貼＝放大編輯；拖曳（移動 >4px 才開始）；長按 0.7 秒＝進度圈滿了撕掉（放開就取消）
 // 板子本體由本檔畫（room_fg 背景裡不畫，免得重複）；便利貼上的字只畫成橫條，不在房間畫面上顯示內容
 (function(){
-const KEY='alivelog.board',BX=273,BY=228,BW=43,BH=41,IX0=BX+3,IY0=BY+3,IX1=BX+BW-3,IY1=BY+BH-3,NW=12,NH=11,MAX=6,LONG=700,DRAG=4;
+const KEY='alivelog.board',BX=273,BY=232,BW=43,BH=41,IX0=BX+3,IY0=BY+3,IX1=BX+BW-3,IY1=BY+BH-3,NW=12,NH=11,MAX=6,LONG=700,DRAG=4;
 const COLS=['#f0c85a','#dc8c96','#6eb4aa','#a0c86e','#c8c8be'];
 const st=(()=>{try{const j=JSON.parse(localStorage.getItem(KEY));if(j&&Array.isArray(j.notes))return j}catch(e){}return{notes:[]}})();
 if(st.notes.some(n=>n.x<IX0||n.y<IY0||n.x>IX1-NW||n.y>IY1-NH)){st.notes.forEach(n=>{if(n.y<150)n.y+=150;n.x+=BX-250;n.y+=BY-238;n.x=Math.max(IX0,Math.min(IX1-NW,n.x));n.y=Math.max(IY0,Math.min(IY1-NH,n.y))});localStorage.setItem(KEY,JSON.stringify(st))}   // 舊版（480x270 或 loft_final）位置的便利貼：搬到新板子並夾在板內   // live23：舊 480x270 座標的便利貼搬到新座標（y+150）

diff --git a/alivelog-room/dust.js b/alivelog-room/dust.js
@@ -4,7 +4,7 @@
 (function(){
 const KEY='alivelog.dust',DAY=86400e3,CUP={x:52,y:414},SNEEZE_R=130;
 const HIGH=[[0,92,211],[70,88,235],[68,86,257],[80,98,279],[68,86,301],[80,98,323],[100,210,193]];   // live23：+閣樓牆架1、牆架2、床頭小書架  // [x0,x1,頂面y]
-const DESK=[[237,351,317]];
+const DESK=[[237,351,321]];
 const st=Object.assign({high:Date.now(),desk:Date.now()},(()=>{try{return JSON.parse(localStorage.getItem(KEY))||{}}catch(e){return{}}})());
 const save=()=>localStorage.setItem(KEY,JSON.stringify(st));
 const stage=t=>{const d=(Date.now()-t)/DAY;return d>=7?3:d>=3?2:d>=1?1:0};
